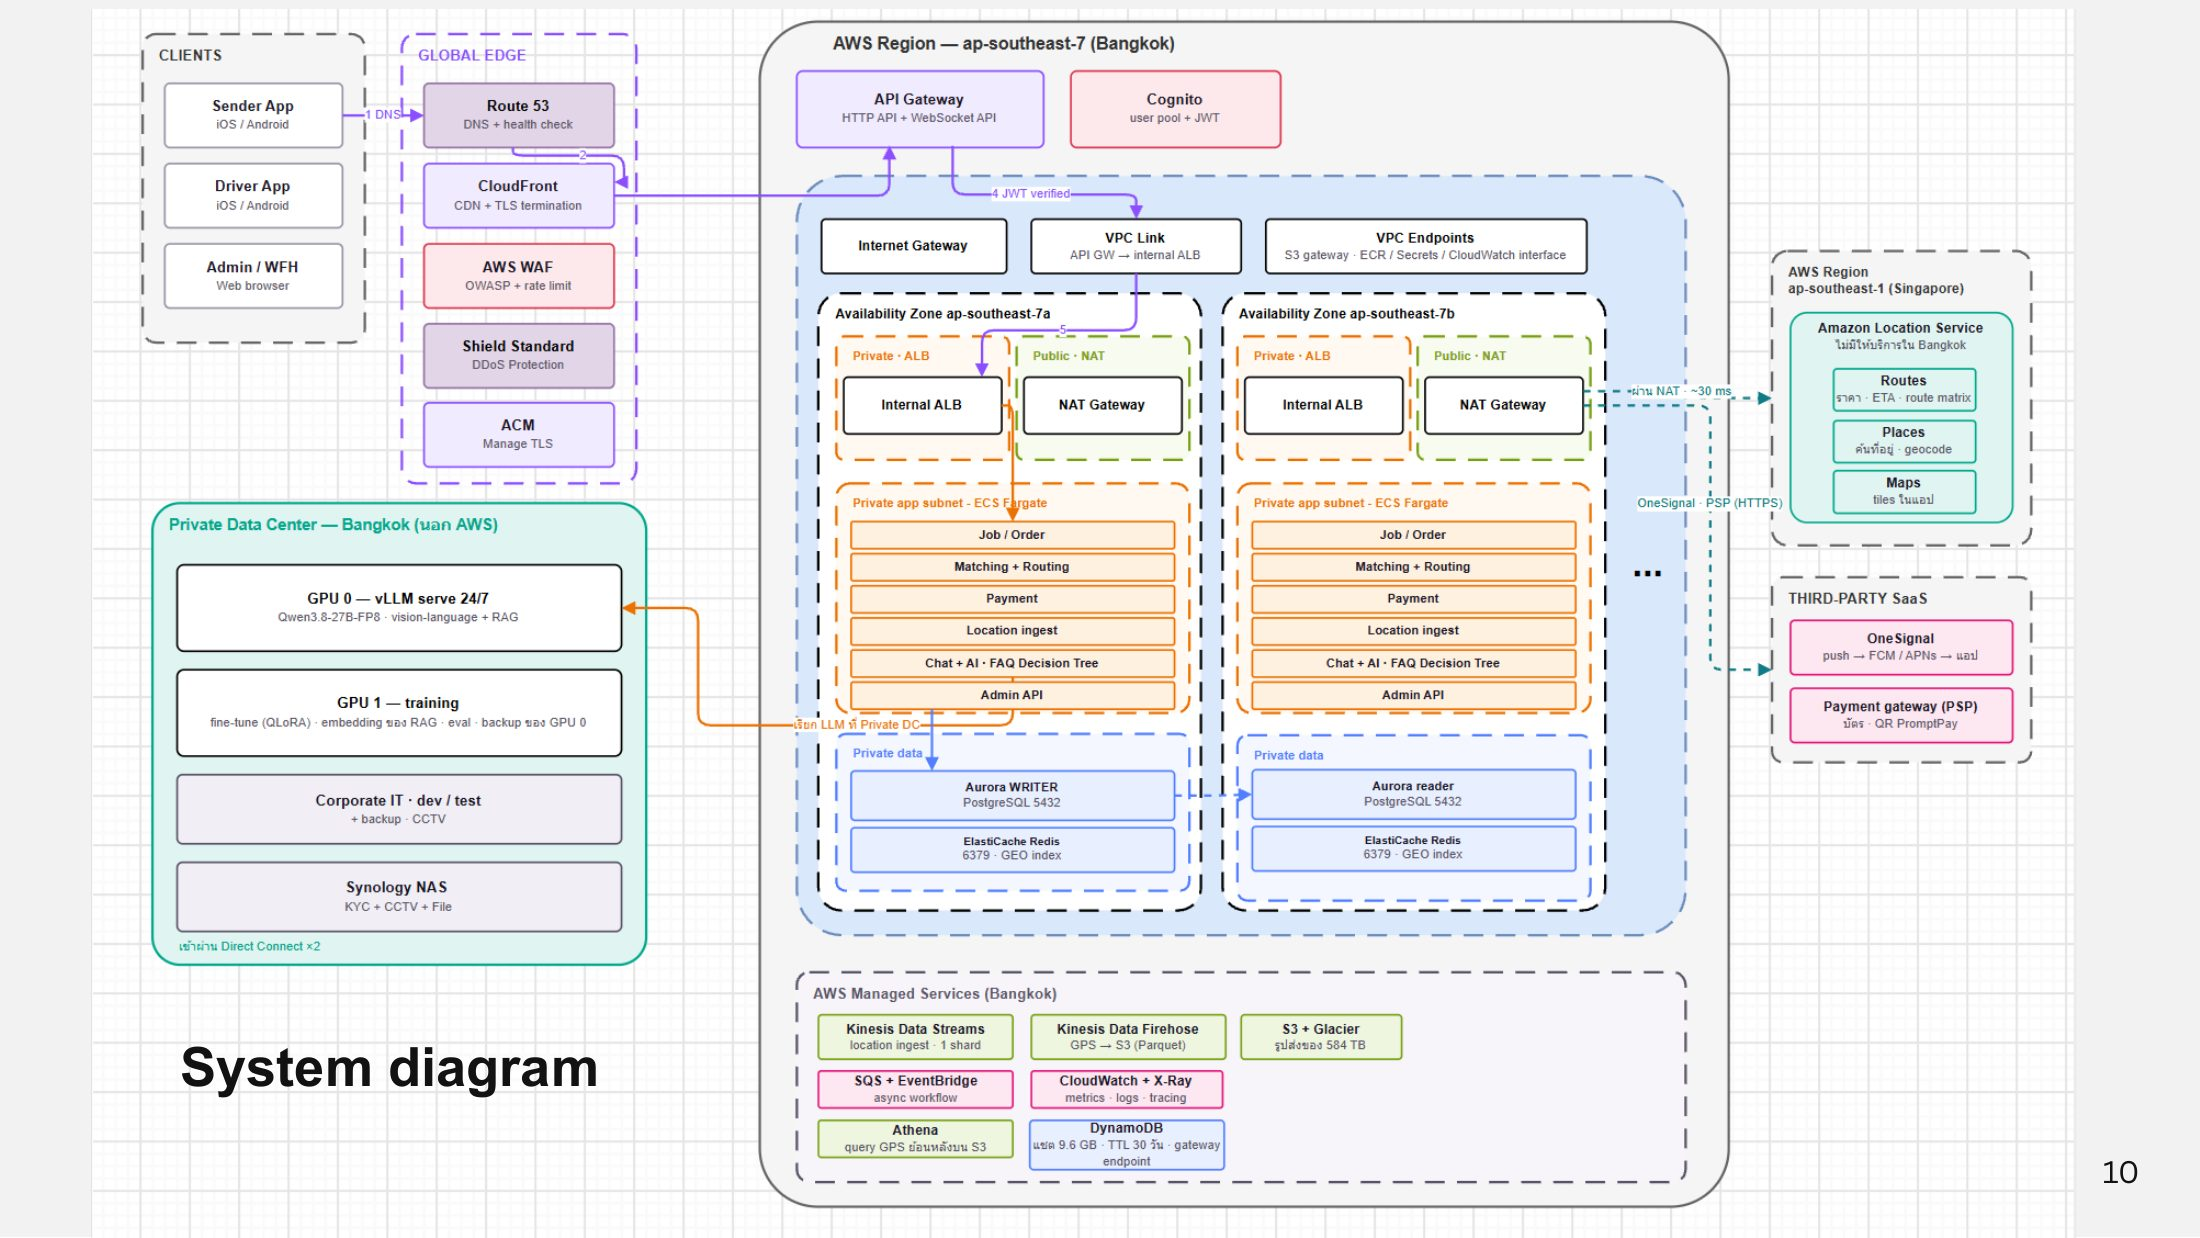
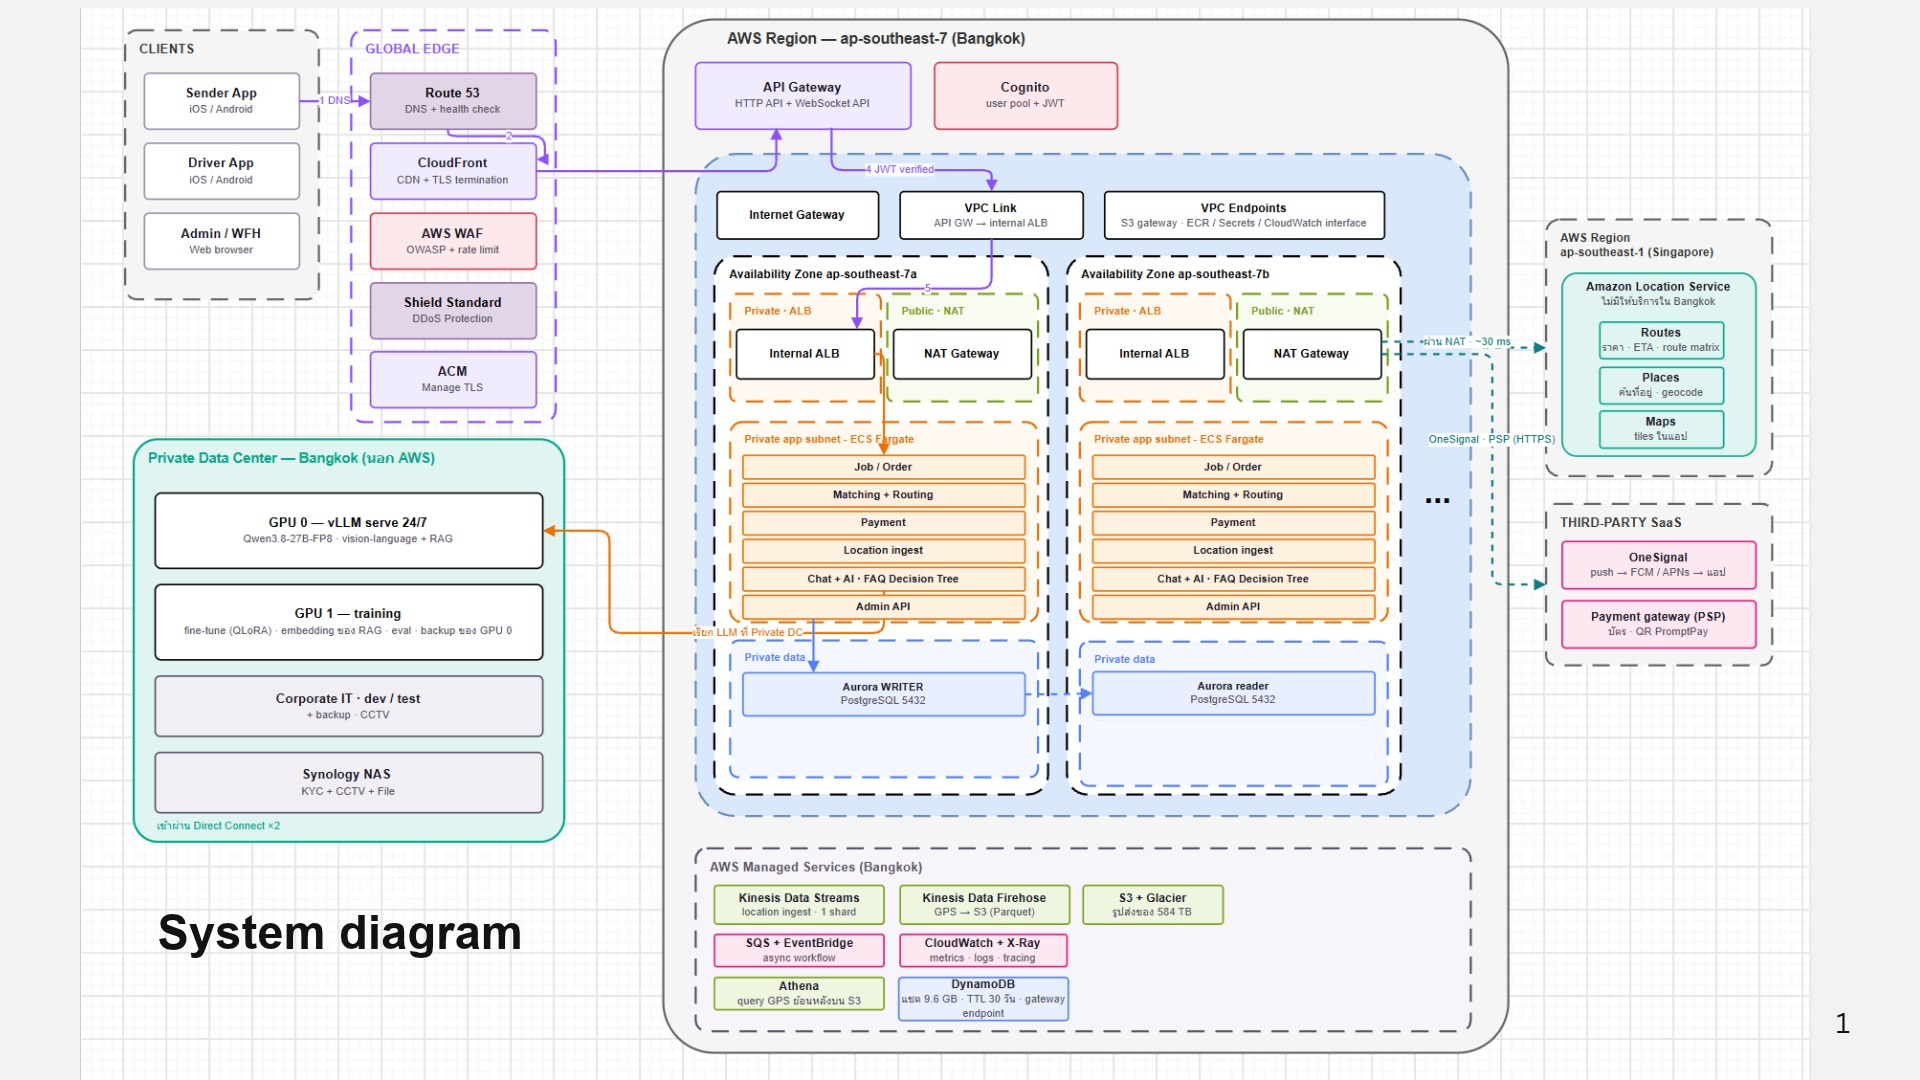
Batch 3: tech stack/testing cleanup, Flow AI image, evaluation wording, design decision reasons, new system diagram image
Claude-Session: https://claude.ai/code/session_017iNtL7i6fme3GEEWFnC16E

diff --git a/cloud/design-decision.md b/cloud/design-decision.md
@@ -22,6 +22,15 @@ layout:
 
 **ย้ายทุกอย่างบน customer request path ขึ้น AWS ทำให้ round trip ข้ามระบบแบบ synchronous ต่อหนึ่งธุรกรรมลดจากประมาณ 31 ครั้งเหลือ 0**
 
+## ทำไมระบบส่วนใหญ่ถึงอยู่บน Cloud
+
+* **Latency ต่ำ:** บริการที่ลูกค้าใช้งานทั้งหมดอยู่ใน AWS Region เดียวกัน คุยกันได้ในเวลาไม่ถึง 1 ms ไม่ต้องข้ามเครือข่ายไปมา
+* **ไม่มีจุดล่มจุดเดียว:** AWS กระจายระบบหลาย Availability Zone ส่วนห้อง Datacenter ของบริษัทยังไม่ผ่านมาตรฐาน TIA-942 Rated-3
+* **ไม่พึ่ง Direct Connect:** ถ้าการเชื่อมต่อไป Private Data Center ล่ม ลูกค้ายังใช้งานได้ตามปกติ
+* **ขยายระบบได้ตามโหลด:** ใช้ managed services อย่าง ECS Fargate และ Aurora ที่เพิ่มกำลังได้เมื่อมีงานมากขึ้น
+
+Private Data Center จึงเหลือไว้เฉพาะงานที่ไม่อยู่บนเส้นทางของลูกค้า เช่น GPU สำหรับ LLM, การเทรนโมเดล, Corporate IT และ backup
+
 <figure><img src="../.gitbook/assets/round-trips.jpg" alt="Round trips per single transaction: ก่อนและหลัง"><figcaption><p>Round trips per single transaction: ก่อนและหลัง</p></figcaption></figure>
 
 ## ก่อน (Progress 2)
@@ -35,6 +44,8 @@ Core transaction DB, Payment และ KYC อยู่ใน Private Data Cente
 80,000 งาน/วัน × 31 = **2.48 ล้านครั้งต่อวัน** ที่ต้องข้ามเครือข่าย ถ้า Direct Connect มีปัญหา ลูกค้าได้รับผลกระทบทันที
 
 ## หลัง (ออกแบบใหม่)
+
+เหตุผลที่ต้องออกแบบใหม่คือ **latency สูง** เพราะการแบ่งระบบแบบ hybrid cloud ทำให้ทุกธุรกรรมต้องวิ่งไปกลับระหว่าง AWS กับ Private Data Center หลายรอบ จึงย้ายบริการบน customer request path ทั้งหมดมาไว้ที่เดียวกัน
 
 API Gateway, Job service, Core DB (Aurora), Matching, Payment และ Location + Chat อยู่ใน AWS Region เดียวทั้งหมด (RTT < 1 ms) Private Data Center เชื่อมแบบ async เท่านั้น (CDC replication, backup, batch) และเหลือเฉพาะงานนอก critical path ได้แก่ Corporate IT, Dev/Test/Staging, ML training, LLM serving, CCTV และ backup target
 

diff --git a/software/tech-stack.md b/software/tech-stack.md
@@ -28,15 +28,8 @@ layout:
 | Backend | Go | บริการ Job, Matching, Payment, Location, Chat + AI และ Admin API |
 | Database | PostgreSQL (Amazon Aurora) | ข้อมูลธุรกรรมหลัก |
 | AI | Decision Tree + TF-IDF, Qwen บน vLLM | AI Support Chatbot แบบ Hybrid |
-| Testing | flutter test, integration test, Postman, Apache JMeter | ทดสอบแอป API และ load test |
+| Testing | flutter_test, integration test, Postman, Apache JMeter | ทดสอบแอป API และ load test |
 | DevOps | Docker, GitHub Actions | build image และ CI/CD |
 | Cloud | AWS (ap-southeast-7 Bangkok) | รันระบบ production ทั้งหมดบน customer request path |
 | Project Management & Collab | Notion, Discord | วางแผนงาน บันทึกประชุม ติดตามงานแต่ละทีม และสื่อสารภายในทีม |
 
-{% hint style="info" %}
-ใน Progress 2 ช่อง Database มี Redis ด้วย แต่สไลด์ Final เหลือเพียง PostgreSQL ส่วน ElastiCache Redis ยังใช้เป็น GEO index ใน [System Diagram](../cloud/system-diagram.md)
-{% endhint %}
-
-{% hint style="warning" %}
-**[เติม]** เหตุผลที่เลือกแต่ละเทคโนโลยี เช่น ทำไมเลือก Flutter แทน native หรือทำไมเลือก Go
-{% endhint %}

diff --git a/ai/evaluation.md b/ai/evaluation.md
@@ -48,7 +48,7 @@ layout:
 
 ## การตีความผล
 
-ตัวเลขยังไม่สูงมาก เพราะ dataset มีเพียง 216 ตัวอย่าง แต่ระบบออกแบบให้ Classifier เป็นด่านแรกเท่านั้น เมื่อไม่มั่นใจ ระบบจะ **ไม่ตอบเอง (abstain)** แล้วส่งต่อให้ LLM หรือ Admin สิ่งที่สำคัญที่สุดจึงเป็นการคุม confidently-wrong rate ให้ต่ำ
+ตัวเลขยังไม่สูงมาก เพราะ dataset มีเพียง 216 ตัวอย่าง แต่ระบบออกแบบให้ Classifier เป็นด่านแรกเท่านั้น เมื่อไม่มั่นใจ ระบบจะ **ไม่ตอบเอง** แล้วส่งต่อให้ LLM หรือ Admin สิ่งที่สำคัญที่สุดจึงเป็นการคุม confidently-wrong rate ให้ต่ำ
 
 ในการ deploy มีเกณฑ์ว่า novel-phrase test และ confidently-wrong ต้องไม่เกินเกณฑ์ก่อนปล่อยโมเดลใหม่ ส่วน LLM ใช้ eval set ที่วัดว่าตอบถูก route ticket ถูกทีม และ escalate ไม่พลาด
 

diff --git a/software/testing.md b/software/testing.md
@@ -22,12 +22,8 @@ layout:
 
 | ประเภท | เครื่องมือ | ทดสอบอะไร |
 | --- | --- | --- |
-| Unit / Widget test | flutter test | logic และหน้าจอของแอป Flutter |
+| Unit / Widget test | flutter_test | logic และหน้าจอของแอป Flutter |
 | Integration test | Flutter integration test | flow การใช้งานต่อเนื่องในแอป |
 | API test | Postman | endpoint ของ Backend |
 | Load test | Apache JMeter | ความสามารถรองรับโหลดของ API |
 | AI test | LOOCV, novel-phrase test | ความแม่นยำของ FAQ Classifier (ดู [Evaluation](../ai/evaluation.md)) |
-
-{% hint style="warning" %}
-**[เติม]** ผลการทดสอบจริง เช่น จำนวน test case ที่ผ่าน และผล load test จาก JMeter (requests/s, latency)
-{% endhint %}
